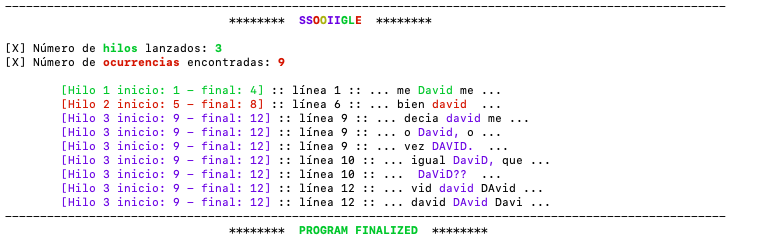
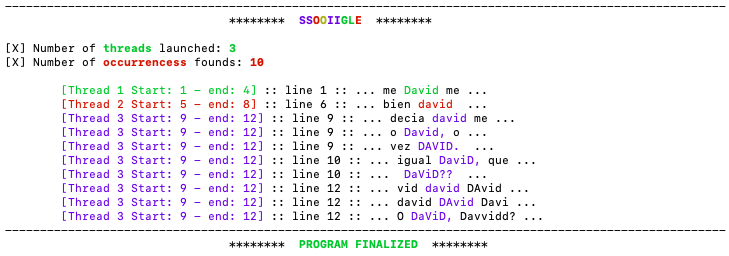
Modificacion

diff --git a/src/SSOOIIGLE.cpp b/src/SSOOIIGLE.cpp
@@ -13,7 +13,6 @@
 #include <definitions.h>
 #include <WordBrowser.h>
 
-
 void parse_argv(int argc, char *argv[], std::string &word, std::string &file_path);
 void print_title();
 std::string open_file(std::string file);
@@ -30,14 +29,12 @@ void get_word_info(int position, std::vector<std::string> line_st, std::string &
 void wait_threads();
 void print_result();
 
-
 /* Global variables */
-int threads_number_;                        // Thread's total number
-std::vector<std::thread> threads_vector_;   // Threads vector
-unsigned int ocurrences_number_ = 0;        // Occurrences total number
-std::mutex sem1, sem2;                      // Declaration of semaphores used
-std::vector<WordBrowser> wb_vector_;        // Instances WordBrowser vector
-
+int threads_number_;                      // Thread's total number
+std::vector<std::thread> threads_vector_; // Threads vector
+unsigned int ocurrences_number_ = 0;      // Occurrences total number
+std::mutex sem;                    // Declaration of semaphores used
+std::vector<WordBrowser> wb_vector_;      // Instances WordBrowser vector
 
 int main(int argc, char *argv[])
 {
@@ -139,10 +136,10 @@ void assign_generate_threads(int thread_lines, int rest_lines, std::string word,
 void launch_threads(int thread_id, int start_line, int end_line, std::string word, std::string file_path, int &c)
 {
     std::string colors[COLORS_NUMBER] = {GREEN, RED, BLUE, YELLOW, MAGENTA, CYAN};
-    
+
     /* Check if there are more threads than colors*/
     thread_id > COLORS_NUMBER - 1 ? c = 0 : c;
-    
+
     wb_vector_.push_back(WordBrowser(thread_id, start_line, end_line, colors[c]));
     threads_vector_.push_back(std::thread(search, thread_id, word, file_path));
 }
@@ -157,8 +154,11 @@ void search(int thread_id, std::string word, std::string file_path)
     std::vector<std::string> line_words;
 
     int start_line, end_line;
+    
+    sem.lock();
     start_line = wb_vector_[thread_id].get_start_line();
     end_line = wb_vector_[thread_id].get_end_line();
+    sem.unlock();
 
     fs.open(file_path, std::ios::in);
 
@@ -170,6 +170,7 @@ void search(int thread_id, std::string word, std::string file_path)
             line_words = string_tokenizer(line);
             search_word(i, thread_id, word, line_words);
         }
+        line_words.clear();
     }
 
     /* Add ocurrences to 'ocurrences_number_' */
@@ -187,7 +188,9 @@ void search_word(int line, int thread_id, std::string word, std::vector<std::str
         {
             get_word_info(pos, line_words, anteccessor, successor);
 
-            wb_vector_[thread_id].add_ocurrence(line, line_words[pos], anteccessor, successor, sem1);
+            sem.lock();
+            wb_vector_[thread_id].add_ocurrence(line, line_words[pos], anteccessor, successor);
+            sem.unlock();
         }
     }
 }
@@ -229,7 +232,7 @@ bool equals(std::string word_compare, std::string word)
 /* Increment ocurrences number */
 void add_occurrences_number(int thread_id)
 {
-    std::lock_guard<std::mutex> guard(sem2);
+    std::lock_guard<std::mutex> guard(sem);
     {
         ocurrences_number_ += wb_vector_[thread_id].get_ocurrences_number();
     }
@@ -260,22 +263,24 @@ void wait_threads()
 /*Print title (SSOOIIGLE) */
 void print_title()
 {
-    std::cout << "-------------------------------------------------------------------------------------------------------" << std::endl; 
+    std::cout << "-------------------------------------------------------------------------------------------------------" << std::endl;
     std::cout << "\t\t\t\t********  " << BOLDBLUE << "SS" << BOLDRED "O" << BOLDYELLOW << "O" << BOLDBLUE "II" << BOLDGREEN << "GL"
-     << BOLDRED "E" << RESET "  ********\n"<< std::endl;
+              << BOLDRED "E" << RESET "  ********\n"
+              << std::endl;
 }
 
 /* Print search result */
 void print_result()
 {
-    std::cout << "[X] Número de " << BOLDGREEN << "hilos" << RESET << " lanzados: " << BOLDGREEN << threads_number_ << RESET << std::endl;
-    std::cout << "[X] Número de " << BOLDRED << "ocurrencias" << RESET << " encontradas: " << BOLDRED << ocurrences_number_ << RESET << "\n" << std::endl;
+    std::cout << "[X] Number of " << BOLDGREEN << "threads" << RESET << " launched: " << BOLDGREEN << threads_number_ << RESET << std::endl;
+    std::cout << "[X] Number of " << BOLDRED << "occurrencess" << RESET << " founds: " << BOLDRED << ocurrences_number_ << RESET << "\n"
+              << std::endl;
     for (unsigned int i = 0; i < wb_vector_.size(); i++)
     {
         wb_vector_[i].print();
-    }  
+    }
 
-    std::cout << "-------------------------------------------------------------------------------------------------------" << std::endl; 
-    std::cout << "\t\t\t\t********  " << BOLDGREEN "PROGRAM FINALIZED" << RESET << "  ********\n" << std::endl;
-
+    std::cout << "-------------------------------------------------------------------------------------------------------" << std::endl;
+    std::cout << "\t\t\t\t********  " << BOLDGREEN "PROGRAM FINALIZED" << RESET << "  ********\n"
+              << std::endl;
 }

diff --git a/src/WordBrowser.cpp b/src/WordBrowser.cpp
@@ -21,7 +21,7 @@ WordBrowser::~WordBrowser() {}
 
 /* Class methods */
 
-void WordBrowser::add_ocurrence(int line, std::string word, std::string anteccessor, std::string successor, std::mutex &sem)
+void WordBrowser::add_ocurrence(int line, std::string word, std::string anteccessor, std::string successor)
 {
     /* Generate a new struct (WordFinded)*/
     WordFinded *wf = new WordFinded;
@@ -31,7 +31,6 @@ void WordBrowser::add_ocurrence(int line, std::string word, std::string antecces
     wf->successor = successor;
 
     /*Add struct to the list*/
-    std::lock_guard<std::mutex> guard(sem);
     {
         ocurrences_.push_back(*wf);
     }

diff --git a/include/WordBrowser.h b/include/WordBrowser.h
@@ -26,7 +26,7 @@ private:
 public:
     WordBrowser(int thread_id, int start_line, int end_line, std::string color);
     ~WordBrowser();
-    void add_ocurrence(int line, std::string word, std::string antecessor, std::string successor, std::mutex &sem);
+    void add_ocurrence(int line, std::string word, std::string antecessor, std::string successor);
     int get_start_line();
     int get_end_line();
     int get_thread_id();
